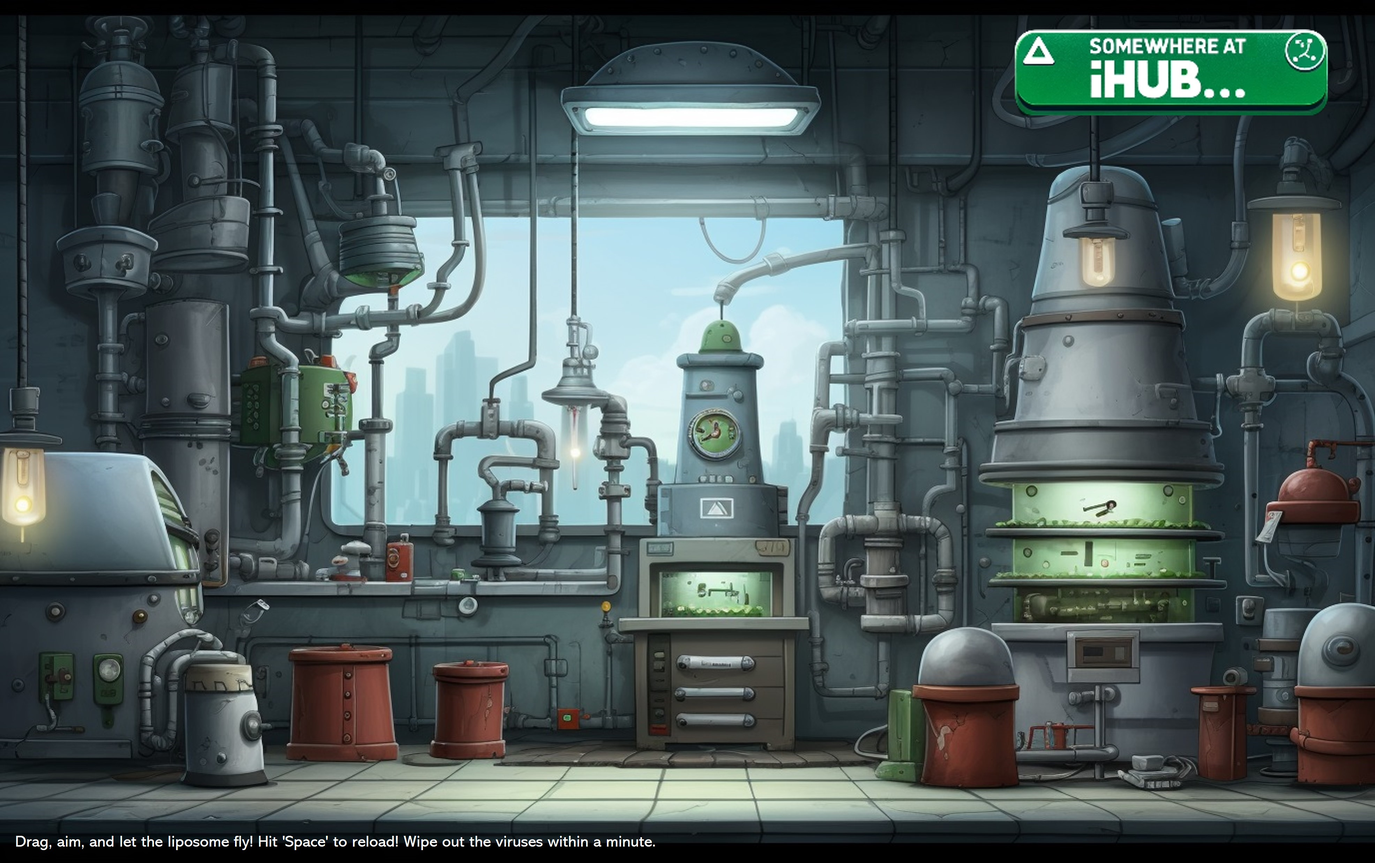
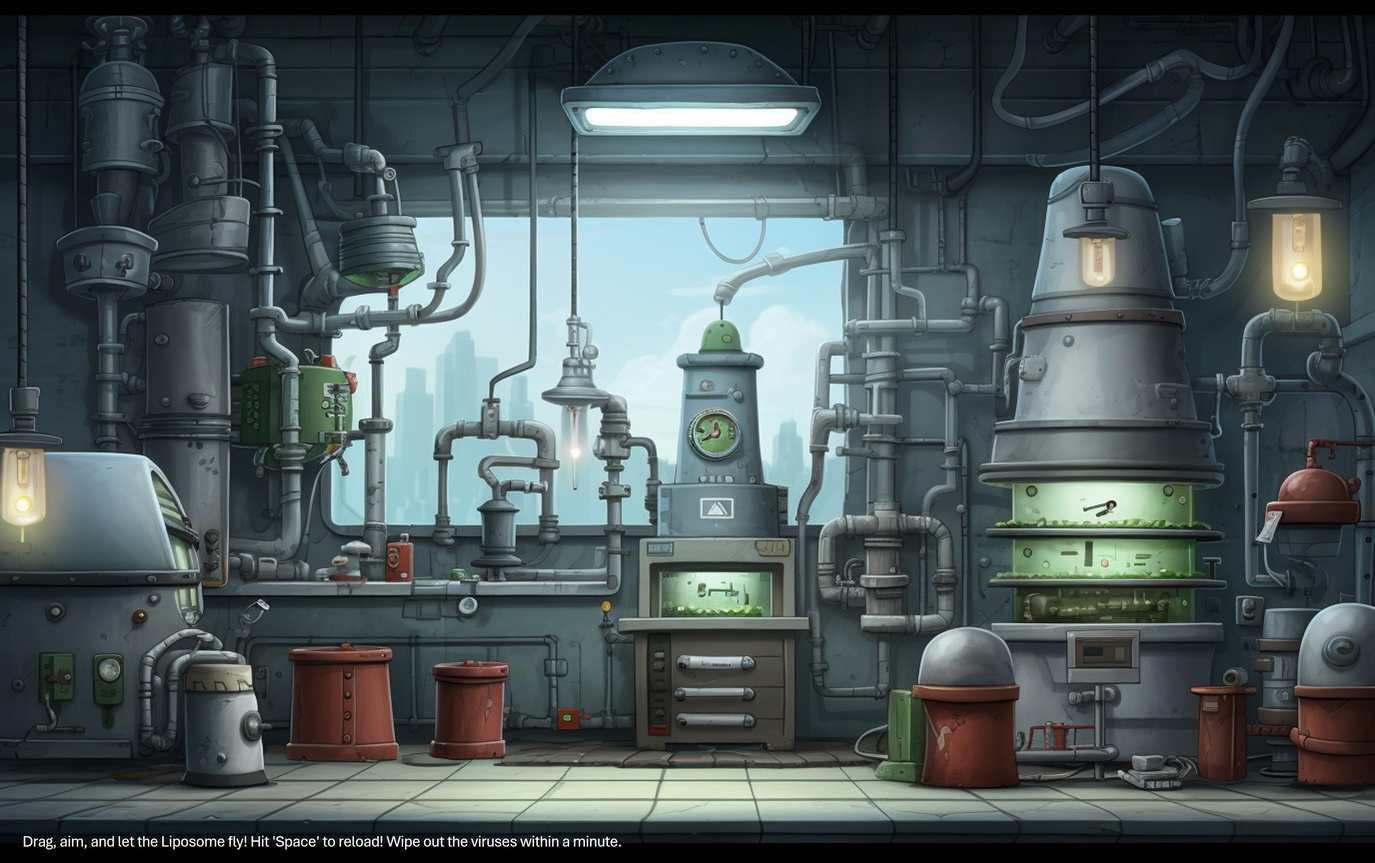
Add files via upload

Changed region(s): [[0.7177, 0.0311, 0.9673, 0.1556], [0.0, 0.9644, 0.468, 0.9956]]

diff --git a/sketch.js b/sketch.js
@@ -10,9 +10,9 @@ let simulationSpeed = 0.8;  // Simulation speed (1 is normal)
 let interactRadius = 50;  // Radius within which mouse interaction is allowed
 
 let boxes = []; 
-let pumpkinReleased = false;  // Flag to track if the pumpkin has been released
-let pumpkinHasCollided = false;  // Flag to track if the pumpkin has collided with any body
-let pumpkinBeingDragged = false;  // Flag to track if the pumpkin is being dragged
+let liposomeReleased = false;  // Flag to track if the liposome has been released
+let liposomeHasCollided = false;  // Flag to track if the liposome has collided with any body
+let liposomeBeingDragged = false;  // Flag to track if the liposome is being dragged
 let gameStarted = false;  // Flag to track if the game has started
 
 let gameDuration = 60000; // 1 minute in milliseconds
@@ -22,11 +22,11 @@ let gameOver = false;
 let allMonstersExploded = false;
 
 function preload() {
-  titleScreen = loadImage('angry_pumpkins.jpg');
+  titleScreen = loadImage('angry_liposomes.jpg');
   backgroundImg = loadImage('background.jpg');
   winningImg = loadImage('winning_image.jpg');
   losingImg = loadImage('losing_image.jpg');
-  pumpkinImg = loadImage('angry2.png');
+  liposomeImg = loadImage('angry2.png');
   imgBox1 = loadImage('box1.png');
   imgBox2 = loadImage('box2.png');
   imgStuff1 = loadImage('stuff1.png');
@@ -47,12 +47,12 @@ function setup() {
   });
   World.add(engine.world, ground);
 
-  pumpkin = Bodies.circle(240, height - 210, 20, {
+  liposome = Bodies.circle(240, height - 210, 20, {
     isStatic: true
   });
-  World.add(engine.world, pumpkin);
+  World.add(engine.world, liposome);
 
-  slingshot = new SlingShot(240, height - 210, pumpkin);
+  slingshot = new SlingShot(240, height - 210, liposome);
   Events.on(engine, 'collisionStart', collision);
 
   torch1 = new Torch(330, 620);
@@ -62,24 +62,24 @@ function setup() {
 
   // Init objects
 
-  boxes.push(new GameObject(550, 200, 50, 50, monsterImg, 1.5, true, true)); // First Corona Virus
+  boxes.push(new GameObject(550, 200, 50, 50, monsterImg, 1.5, true, true)); // First Virus
   boxes.push(new GameObject(550, 250, 50, 91, imgFlask1, 1.05)); // First Flask
   boxes.push(new GameObject(500, 450, 200, 253, imgStove1, 1.05)); // First Stove
 
-  boxes.push(new GameObject(700, 550, 50, 50, monsterImg, 1.5, true, true)); // Second Corona Virus
+  boxes.push(new GameObject(700, 550, 50, 50, monsterImg, 1.5, true, true)); // Second Virus
   boxes.push(new GameObject(700, 600, 50, 91, imgFlask1, 1.05)); // Second Flask
 
-  boxes.push(new GameObject(950, 120, 50, 50, monsterImg, 1.5, true, true)); // First Corona Virus
+  boxes.push(new GameObject(950, 120, 50, 50, monsterImg, 1.5, true, true)); // Third Virus
   boxes.push(new GameObject(900, 150, 219, 100, imgStuff1, 1.05)); // First Stuff
   boxes.push(new GameObject(920, 350, 150, 150, imgBox1, 1.05)); // First Box 
   boxes.push(new GameObject(900, 500, 150, 150, imgBox1, 1.05)); // Second Box
   
-  boxes.push(new GameObject(1150, 450, 50, 50, monsterImg, 1.5, true, true)); // First Corona Virus
-  boxes.push(new GameObject(1150, 500, 150, 150, imgBox2, 1.05)); // First Box
+  boxes.push(new GameObject(1150, 450, 50, 50, monsterImg, 1.5, true, true)); // Fourth Virus
+  boxes.push(new GameObject(1150, 500, 150, 150, imgBox2, 1.05)); // Third Box
 
     
   boxes.push(new GameObject(1350, 300, 50, 91, imgFlask1, 1.05)); // Third Flask
-  boxes.push(new GameObject(1450, 400, 50, 50, monsterImg, 1.5, true, true)); // Third Corona Virus
+  boxes.push(new GameObject(1450, 400, 50, 50, monsterImg, 1.5, true, true)); // Fifth Virus
   boxes.push(new GameObject(1380, 750, 150, 286, imgShelf1, 1.05)); // First Shelf
 
   startTime = millis(); // This captures the current time in milliseconds
@@ -159,51 +159,51 @@ class ExplosionParticle {
   }
 }
 
-function resetpumpkin() {
+function resetliposome() {
 
   // Portal effect
-  let disappearPortal = new PortalEffect(pumpkin.position.x, pumpkin.position.y);
+  let disappearPortal = new PortalEffect(liposome.position.x, liposome.position.y);
   explosionManager.explosions.push(disappearPortal);
 
-  // Delete pumpkin
-  World.remove(engine.world, pumpkin);
+  // Delete liposome
+  World.remove(engine.world, liposome);
 
-  // Create new pumpkin
-  pumpkin = Bodies.circle(240, height - 210, 20, {
+  // Create new liposome
+  liposome = Bodies.circle(240, height - 210, 20, {
     isStatic: true
   });
-  World.add(engine.world, pumpkin);
+  World.add(engine.world, liposome);
 
   // Portal effect
-  let appearPortal = new PortalEffect(pumpkin.position.x, pumpkin.position.y);
+  let appearPortal = new PortalEffect(liposome.position.x, liposome.position.y);
   explosionManager.explosions.push(appearPortal);
 
   // Reset Decelerate
-  slingshot = new SlingShot(240, height - 210, pumpkin);
+  slingshot = new SlingShot(240, height - 210, liposome);
 
   // Resetear states
-  pumpkinReleased = false;
-  pumpkinHasCollided = false;
-  pumpkinBeingDragged = false;
+  liposomeReleased = false;
+  liposomeHasCollided = false;
+  liposomeBeingDragged = false;
 }
 
 function mouseDragged() {
-  let d = dist(mouseX, mouseY, pumpkin.position.x, pumpkin.position.y);
-  if (!pumpkinReleased && d < interactRadius) {
-    pumpkinBeingDragged = true;
+  let d = dist(mouseX, mouseY, liposome.position.x, liposome.position.y);
+  if (!liposomeReleased && d < interactRadius) {
+    liposomeBeingDragged = true;
     let stretchDistance = dist(mouseX, mouseY, slingshot.origin.x, slingshot.origin.y);
     if (stretchDistance > maxStretch) {
       // Calculate angle between origin and mouse
       let angle = atan2(mouseY - slingshot.origin.y, mouseX - slingshot.origin.x);
-      // Calculate pumpkin position in the limit of the max distance
+      // Calculate liposome position in the limit of the max distance
       let newPosX = slingshot.origin.x + maxStretch * cos(angle);
       let newPosY = slingshot.origin.y + maxStretch * sin(angle);
-      Body.setPosition(pumpkin, {
+      Body.setPosition(liposome, {
         x: newPosX,
         y: newPosY
       });
     } else {
-      Body.setPosition(pumpkin, {
+      Body.setPosition(liposome, {
         x: mouseX,
         y: mouseY
       });
@@ -225,9 +225,9 @@ function mousePressed() {
 }
 
 function keyPressed() {
-  //reset pumpkin position
+  //reset liposome position
   if (key === ' ') {
-    resetpumpkin();
+    resetliposome();
   }
 
   // Clean all objects
@@ -240,13 +240,13 @@ function keyPressed() {
 }
 
 function mouseReleased() {
-  if (pumpkinBeingDragged) {
-    pumpkinBeingDragged = false; // Reset the flag
-    pumpkinReleased = true;
-    Body.setStatic(pumpkin, false);
-    let forceX = slingshot.origin.x - pumpkin.position.x;
-    let forceY = slingshot.origin.y - pumpkin.position.y;
-    Body.applyForce(pumpkin, pumpkin.position, {
+  if (liposomeBeingDragged) {
+    liposomeBeingDragged = false; // Reset the flag
+    liposomeReleased = true;
+    Body.setStatic(liposome, false);
+    let forceX = slingshot.origin.x - liposome.position.x;
+    let forceY = slingshot.origin.y - liposome.position.y;
+    Body.applyForce(liposome, liposome.position, {
       x: forceX * strength,
       y: forceY * strength
     });
@@ -266,8 +266,8 @@ function draw() {
     explosionManager.updateAndDisplay();
 
     // Check if the bird has stopped after being launched
-    if (pumpkinReleased && Math.abs(pumpkin.velocity.x) < 0.01 && Math.abs(pumpkin.velocity.y) < 0.01) {
-      resetpumpkin();
+    if (liposomeReleased && Math.abs(liposome.velocity.x) < 0.01 && Math.abs(liposome.velocity.y) < 0.01) {
+      resetliposome();
     }
 
     // Set the blending mode to ADD for a mix effect
@@ -283,22 +283,22 @@ function draw() {
     slingshot.display();
 
     let angle;
-    if (!pumpkinHasCollided) {
-      if (!pumpkinReleased) {
-        angle = atan2(slingshot.origin.y - pumpkin.position.y, slingshot.origin.x - pumpkin.position.x);
+    if (!liposomeHasCollided) {
+      if (!liposomeReleased) {
+        angle = atan2(slingshot.origin.y - liposome.position.y, slingshot.origin.x - liposome.position.x);
       } else {
-        let velocity = pumpkin.velocity;
+        let velocity = liposome.velocity;
         angle = atan2(velocity.y, velocity.x);
       }
     } else {
-      angle = pumpkin.angle; // Use pumpkin.angle after collision
+      angle = liposome.angle; // Use liposome.angle after collision
     }
 
     push();
-    translate(pumpkin.position.x, pumpkin.position.y);
+    translate(liposome.position.x, liposome.position.y);
     rotate(angle);
     imageMode(CENTER);
-    image(pumpkinImg, 0, 0, 60, 60);
+    image(liposomeImg, 0, 0, 60, 60);
     pop();
 
     for (let box of boxes) {
@@ -532,9 +532,9 @@ function collision(event) {
     propagateImpact(bodyA, impactMagnitude, impactThreshold + 1.5, bodyA.position);
     propagateImpact(bodyB, impactMagnitude, impactThreshold + 1.5, bodyB.position);
 
-    // Check for pumpkin collision with anything
-    if (bodyA === pumpkin || bodyB === pumpkin) {
-      pumpkinHasCollided = true; // Change pumpkinHasCollided to true on collision
+    // Check for liposome collision with anything
+    if (bodyA === liposome || bodyB === liposome) {
+      liposomeHasCollided = true; // Change liposomeHasCollided to true on collision
     }
   }
 }
@@ -602,10 +602,10 @@ class SlingShot {
   }
 
   display() {
-    if (!pumpkinReleased) {
+    if (!liposomeReleased) {
       stroke(255);
       strokeWeight(4);
-      line(this.origin.x, this.origin.y, pumpkin.position.x, pumpkin.position.y);
+      line(this.origin.x, this.origin.y, liposome.position.x, liposome.position.y);
     }
   }
 }

diff --git a/index.html b/index.html
@@ -1,7 +1,7 @@
 <!DOCTYPE html>
 <html>
 <head>
-    <title>Angry Pumpkins Game</title>
+    <title>Angry Liposomes Game</title>
     <!-- Include p5.js -->
     <script src="https://cdnjs.cloudflare.com/ajax/libs/p5.js/1.4.0/p5.js"></script>
     <!-- Include Matter.js -->
